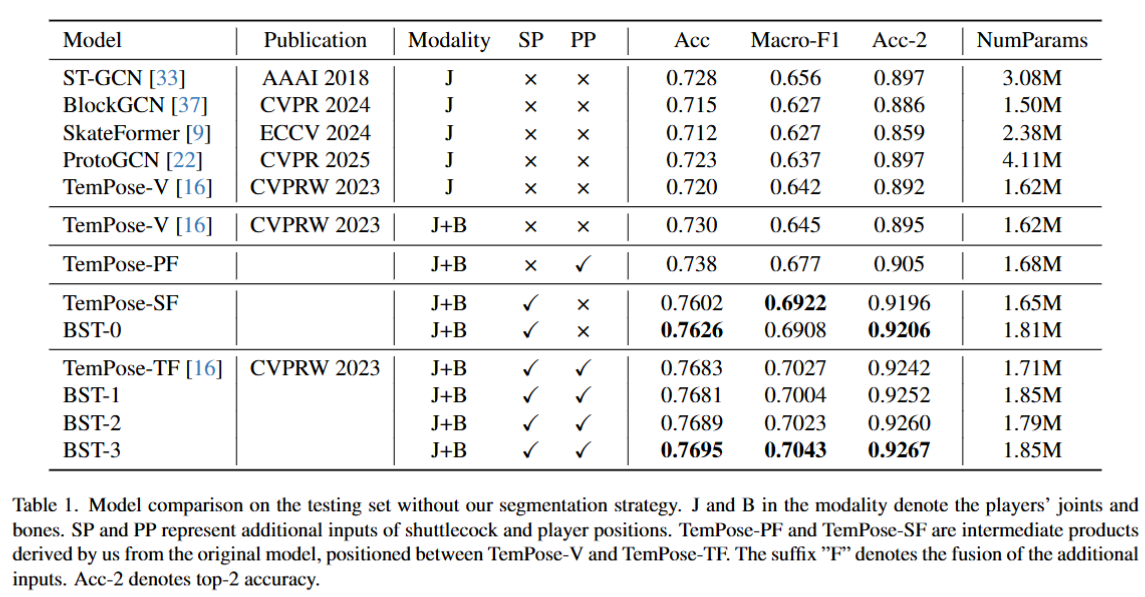
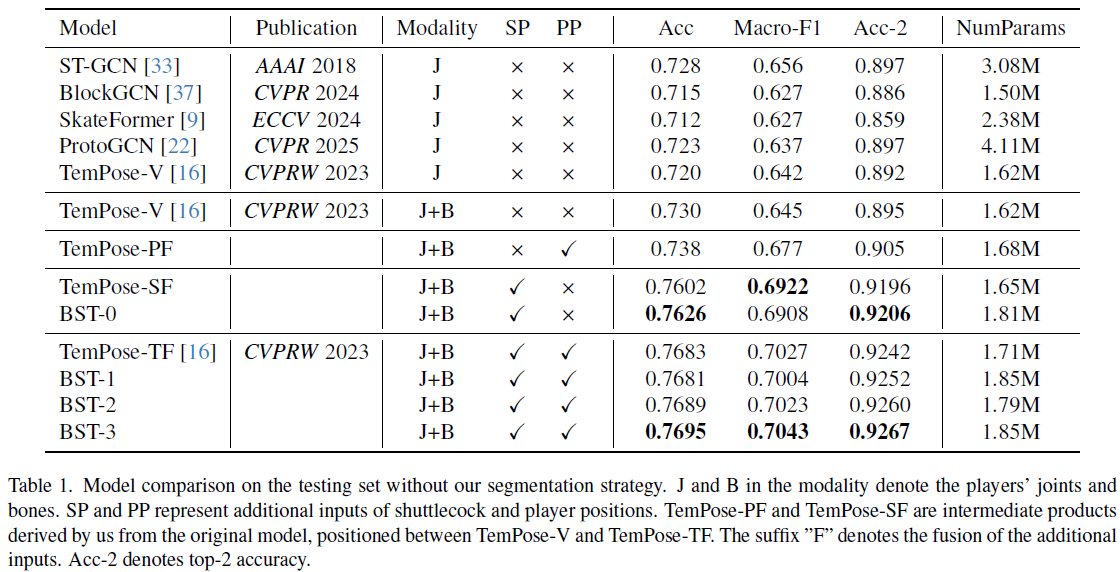
Correct figures

diff --git a/README.md b/README.md
@@ -20,7 +20,7 @@ To the best of our knowledge, experimental results demonstrate that our method o
 <img src="stroke_classification/results/main_result_2.png" alt="Main Table 2" width="67%">
 
 ### Results on (each class) 25% Training Set (Without Our Segmentation Strategy)
-<img src="stroke_classification/results/reduced_trainset_result.png" alt="25% Training Set Table" width="67%">
+<img src="stroke_classification/results/reduced_trainset_result.png" alt="25% Training Set Table" width="71%">
 
 ## Training Speed
 - On a NVIDIA RTX 4070 Ti Super setup, training **BST-3** takes 29 sec per epoch, while training **TemPose-TF** takes 31 sec per epoch.
